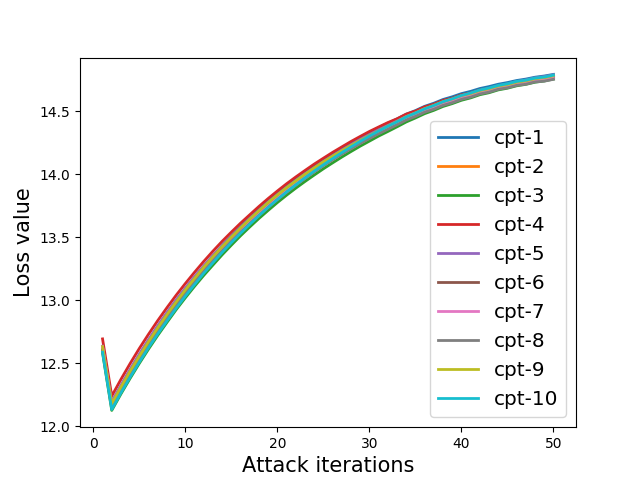
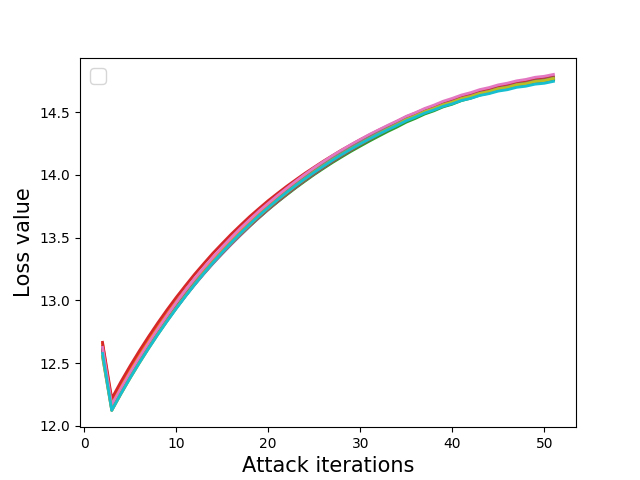
update graph

diff --git a/draw_attack_loss.py b/draw_attack_loss.py
@@ -78,16 +78,16 @@ adv_loss10 = np.array([i[1] for i in data10])
 
 current_palette = sns.color_palette()
 
-plt.plot(x, adv_loss1, color=current_palette[0], label=label1, lw=2)
-plt.plot(x, adv_loss2, color=current_palette[1], label=label2, lw=2)
-plt.plot(x, adv_loss3, color=current_palette[2], label=label3, lw=2)
-plt.plot(x, adv_loss4, color=current_palette[3], label=label4, lw=2)
-plt.plot(x, adv_loss5, color=current_palette[4], label=label5, lw=2)
-plt.plot(x, adv_loss6, color=current_palette[5], label=label6, lw=2)
-plt.plot(x, adv_loss7, color=current_palette[6], label=label7, lw=2)
-plt.plot(x, adv_loss8, color=current_palette[7], label=label8, lw=2)
-plt.plot(x, adv_loss9, color=current_palette[8], label=label9, lw=2)
-plt.plot(x, adv_loss10, color=current_palette[9], label=label10, lw=2)
+plt.plot(x, adv_loss1, color=current_palette[0], lw=2)
+plt.plot(x, adv_loss2, color=current_palette[1], lw=2)
+plt.plot(x, adv_loss3, color=current_palette[2], lw=2)
+plt.plot(x, adv_loss4, color=current_palette[3], lw=2)
+plt.plot(x, adv_loss5, color=current_palette[4], lw=2)
+plt.plot(x, adv_loss6, color=current_palette[5], lw=2)
+plt.plot(x, adv_loss7, color=current_palette[6], lw=2)
+plt.plot(x, adv_loss8, color=current_palette[7], lw=2)
+plt.plot(x, adv_loss9, color=current_palette[8], lw=2)
+plt.plot(x, adv_loss10, color=current_palette[9], lw=2)
 
 plt.xlabel("Attack iterations", fontsize=15)
 plt.ylabel("Loss value", fontsize=15)

diff --git a/pgd_attack.py b/pgd_attack.py
@@ -56,7 +56,7 @@ class LinfPGDAttack:
       x = np.clip(x, x_nat - self.epsilon, x_nat + self.epsilon)
       x = np.clip(x, 0, 1)  # ensure valid pixel range
       print("iteration: {} loss: {}".format(i, mean_xent))
-      log_file.write("{} {}\n".format(i, mean_xent))
+      log_file.write("{} {}\n".format(i + 1, mean_xent))
 
 
     return x
